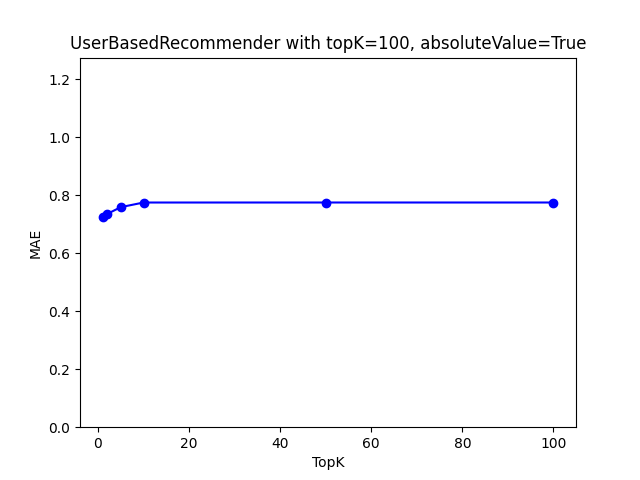
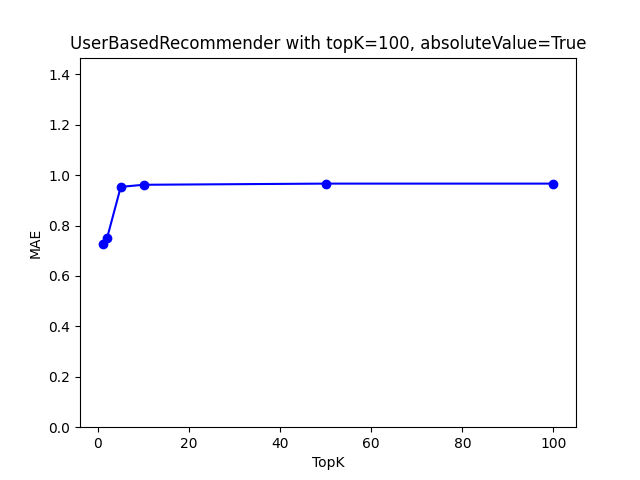
fixed abs

diff --git a/assignment2/itemBasedRecommender.py b/assignment2/itemBasedRecommender.py
@@ -14,10 +14,9 @@ class ItemBasedRecommender:
         self.t = 0
         self.useThreshold = False
         self.abs = False
-        #self.similarities = pd.DataFrame(np.nan, index=self.data.columns, columns=self.data.columns, dtype=float)
 
     @classmethod
-    def read(cls, file_path: str, na=0, name="ItemBasedRecommender"):
+    def read(cls, file_path: str, na=0, name="ItemBasedRecommender"): #used to initialize the recommender
         with open(file_path, "r") as file:
             file.readline()
             users = file.readline().split()
@@ -29,9 +28,9 @@ class ItemBasedRecommender:
         return cls(data, na, name)
 
     @cached_property
-    def similarities(self):
+    def similarities(self):  #will be saved in the recommender object
         try:
-            similarities = pd.read_csv('itemSimilarities.csv', index_col=0)
+            similarities = pd.read_csv('itemSimilarities.csv', index_col=0)  #try to read from a file since regenerating takes over an hour
             similarities.index=self.data.columns
             similarities.columns=self.data.columns
         except:
@@ -39,7 +38,7 @@ class ItemBasedRecommender:
             for itemA in self.data.columns:
                 for itemB in self.data.columns:
                     if pd.isna(similarities.at[itemA, itemB]):
-                        similarities.at[itemA, itemB] = similarities.at[itemB, itemA] = self.compare(itemA, itemB)
+                        similarities.at[itemA, itemB] = similarities.at[itemB, itemA] = self.compare(itemA, itemB)  #similarities are symmetric
             
             similarities.to_csv('itemSimilarities.csv')
         return similarities
@@ -57,63 +56,64 @@ class ItemBasedRecommender:
     def compare(self, itemA: str, itemB: str):
         itemA_ratings = self.data[itemA]
         itemA_rated = itemA_ratings != self.na
-        itemA_rated_ratings = itemA_ratings[itemA_rated]
+        itemA_rated_ratings = itemA_ratings[itemA_rated] #all users who actually rated itemA
         if itemA_rated_ratings.empty:
             return 0.0
         
         itemB_ratings = self.data[itemB]
         itemB_rated = itemB_ratings != self.na
-        itemB_rated_ratings = itemB_ratings[itemB_rated]
+        itemB_rated_ratings = itemB_ratings[itemB_rated] #all users who actually rated itemB
         if itemB_rated_ratings.empty:
             return 0.0
         
-        both_rated = itemA_rated & itemB_rated
+        both_rated = itemA_rated & itemB_rated  #union of ratings for getting similarity
         mean_rated_user_ratings = self.data.loc[both_rated.index].replace(self.na, np.nan).mean(axis=1)
         centered_itemA_ratings = (itemA_rated_ratings.loc[both_rated] - mean_rated_user_ratings).fillna(0)
         centered_itemB_ratings = (itemB_rated_ratings.loc[both_rated] - mean_rated_user_ratings).fillna(0)
         centered_ratings_covariance = np.dot(centered_itemA_ratings, centered_itemB_ratings)
         centered_ratings_norm = np.sqrt(np.sum(centered_itemA_ratings**2)) * np.sqrt(np.sum(centered_itemB_ratings**2))
 
-        if np.isclose(centered_ratings_norm, 0):
+        if np.isclose(centered_ratings_norm, 0):  #handle /0 error
             return 0.0
 
         return centered_ratings_covariance / centered_ratings_norm
 
     def predict(self, user: str, item: str):
-        if (user_rating := self.data.loc[user, item]) != self.na:
+        if (user_rating := self.data.loc[user, item]) != self.na:  #if already predicted, return prediction
             return user_rating
 
         user_ratings = self.data.loc[user]
-        user_rated_ratings = user_ratings[user_ratings != self.na]
+        user_rated_ratings = user_ratings[user_ratings != self.na]  #all items the user actually rated
 
         item_ratings = self.data[item]
         item_rated_ratings = item_ratings[item_ratings != self.na]
         item_mean_rating = item_rated_ratings.mean()
 
         item_similarities = self.similarities.loc[user_rated_ratings.index, item]
+        pure_item_similarities = item_similarities #not abs, use for prediction calculation
         if self.abs:
-            item_similarities = item_similarities.abs()
-        item_similarities = item_similarities[item_similarities > 0]
+            item_similarities = item_similarities.abs()  #convert similarities to abs() values
+        item_similarities = item_similarities[item_similarities > 0]  #if not abs, prune all <0 similarities
 
-        valid_similar_items = item_similarities.index.intersection(item_rated_ratings.index)
+        valid_similar_items = item_similarities.index.intersection(item_rated_ratings.index)  #similarites of valid items
 
         if self.useThreshold:
-            chosen = item_similarities.loc[valid_similar_items][item_similarities.loc[valid_similar_items] > self.t]
+            chosen = item_similarities.loc[valid_similar_items][item_similarities.loc[valid_similar_items] > self.t]  #all sufficiently similar valid items
             chosen_ratings = self.data.loc[user, chosen.index]
             rated_ratings = chosen_ratings[chosen_ratings != self.na]
         else:
-            chosen = item_similarities.loc[valid_similar_items].nlargest(self.k)
+            chosen = item_similarities.loc[valid_similar_items].nlargest(self.k)  #topk similar valid items
             chosen_ratings = self.data.loc[user, chosen.index]
             rated_ratings = chosen_ratings[chosen_ratings != self.na]
 
         if rated_ratings.empty:
-            return item_mean_rating
+            return item_mean_rating  #issue handler
 
-        rated_similarities = item_similarities[rated_ratings.index]
+        rated_similarities = pure_item_similarities[rated_ratings.index]
         rated_similarities_sum = rated_similarities.sum()
         centered_ratings_weighted_sum = (rated_similarities * rated_ratings).sum()
 
-        if np.isclose(rated_similarities_sum, 0):
+        if np.isclose(rated_similarities_sum, 0):  #handles /0 error
             return item_mean_rating
 
         return centered_ratings_weighted_sum / rated_similarities_sum

diff --git a/assignment2/userBasedRecommender.py b/assignment2/userBasedRecommender.py
@@ -15,7 +15,7 @@ class UserBasedRecommender:
         self.abs = False
 
     @classmethod
-    def read(cls, file_path: str, na=0, name="UserBasedRecommender"):
+    def read(cls, file_path: str, na=0, name="UserBasedRecommender"): #used to initialize the recommender
         with open(file_path, "r") as file:
             file.readline()
             users = file.readline().split()
@@ -28,12 +28,12 @@ class UserBasedRecommender:
 
     @cached_property
     def similarities(self):
-        similarities = pd.DataFrame(np.nan, index=self.data.index, columns=self.data.index, dtype=float)
+        similarities = pd.DataFrame(np.nan, index=self.data.index, columns=self.data.index, dtype=float)  #will be saved in the recommender object
 
         for user in self.data.index:
             for peer in self.data.index:
                 if pd.isna(similarities.at[user, peer]):
-                    similarities.at[user, peer] = similarities.at[peer, user] = self.compare(user, peer)
+                    similarities.at[user, peer] = similarities.at[peer, user] = self.compare(user, peer)  #similarities are symmetric
 
         return similarities
 
@@ -50,25 +50,25 @@ class UserBasedRecommender:
     def compare(self, user: str, peer: str):
         user_ratings = self.data.loc[user]
         user_rated = user_ratings != self.na
-        user_rated_ratings = user_ratings[user_rated]
+        user_rated_ratings = user_ratings[user_rated] #all ratings the user actually made
 
         if user_rated_ratings.empty:
             return 0.0
 
         peer_ratings = self.data.loc[peer]
         peer_rated = peer_ratings != self.na
-        peer_rated_ratings = peer_ratings[peer_rated]
+        peer_rated_ratings = peer_ratings[peer_rated] #all ratings the peer actually made
 
         if peer_rated_ratings.empty:
             return 0.0
 
-        both_rated = user_rated & peer_rated
+        both_rated = user_rated & peer_rated #union of ratings to get similarity with
         centered_user_ratings = user_rated_ratings[both_rated] - user_rated_ratings.mean()
         centered_peer_ratings = peer_rated_ratings[both_rated] - peer_rated_ratings.mean()
         entered_ratings_covariance = np.dot(centered_user_ratings, centered_peer_ratings)
         centered_ratings_norm = np.sqrt(np.sum(centered_user_ratings**2)) * np.sqrt(np.sum(centered_peer_ratings**2))
 
-        if np.isclose(centered_ratings_norm, 0):
+        if np.isclose(centered_ratings_norm, 0):  #avoid /0 error
             return 0.0
 
         return entered_ratings_covariance / centered_ratings_norm
@@ -81,30 +81,31 @@ class UserBasedRecommender:
         user_rated_ratings = user_ratings[user_ratings != self.na]
         user_mean_rating = user_rated_ratings.mean()
         user_similarities = self.similarities.loc[user].drop(user)
+        pure_user_similarities = user_similarities
 
-        valid_similar_users = user_similarities.index.intersection(user_rated_ratings.index)
+        valid_similar_users = user_similarities.index.intersection(user_rated_ratings.index) #all similar users we can actually use to predict
         if self.abs:
-            user_similarities = user_similarities.abs()
+            user_similarities = user_similarities.abs() #get absolute similarities
 
         if self.useThreshold:
-            chosen = user_similarities.loc[valid_similar_users][user_similarities.loc[valid_similar_users] > self.t]
+            chosen = user_similarities.loc[valid_similar_users][user_similarities.loc[valid_similar_users] > self.t]  #all sufficiently similar valid users
             chosen_ratings = self.data.loc[chosen.index, item]
             rated_ratings = chosen_ratings[chosen_ratings != self.na]
         else:
-            chosen = user_similarities.loc[valid_similar_users].nlargest(self.k)
+            chosen = user_similarities.loc[valid_similar_users].nlargest(self.k) #topk valid users
             chosen_ratings = self.data.loc[chosen.index, item]
             rated_ratings = chosen_ratings[chosen_ratings != self.na]
 
-        if user_rated_ratings.empty:
+        if user_rated_ratings.empty: #eventuality handler
             return user_mean_rating
 
-        rated_similarities = user_similarities[rated_ratings.index]
+        rated_similarities = pure_user_similarities[rated_ratings.index]
         rated_similarities_sum = rated_similarities.sum()
         rated_mean_ratings = self.data.loc[rated_ratings.index].replace(self.na, np.nan).mean(axis=1)
         centered_ratings = rated_ratings - rated_mean_ratings.loc[rated_ratings.index]
         centered_ratings_weighted_sum = (rated_similarities * centered_ratings).sum()
 
-        if np.isclose(rated_similarities_sum, 0):
+        if np.isclose(rated_similarities_sum, 0): #handle /0 error
             return user_mean_rating
 
         return user_mean_rating + centered_ratings_weighted_sum / rated_similarities_sum

diff --git a/assignment2/mean-absolute-error.py b/assignment2/mean-absolute-error.py
@@ -82,8 +82,8 @@ if __name__ == "__main__":
         end=time.time()
         print(f"{recommender.name} computed similarities in {end-start} seconds")
 
-    for recommender in [itemRecommender, userRecommender]:
-        for abs in [False, True]:
+    for recommender in [userRecommender, itemRecommender]:
+        for abs in [True, False]:
             x=[0,0.2,0.4,0.6,0.8]
             savedMAE=[]
             savedT=[]
